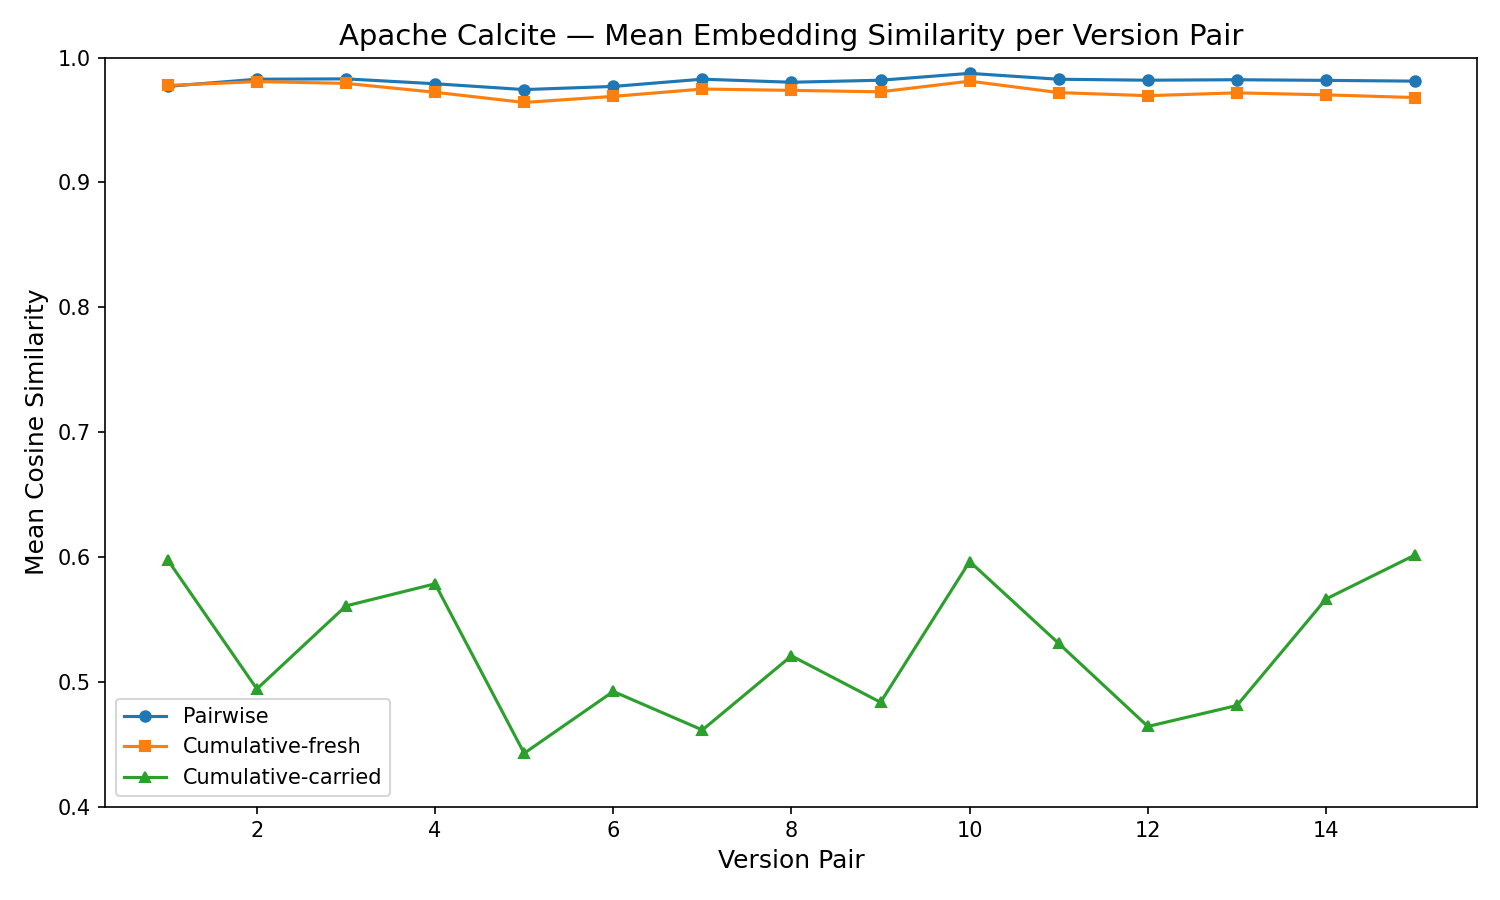
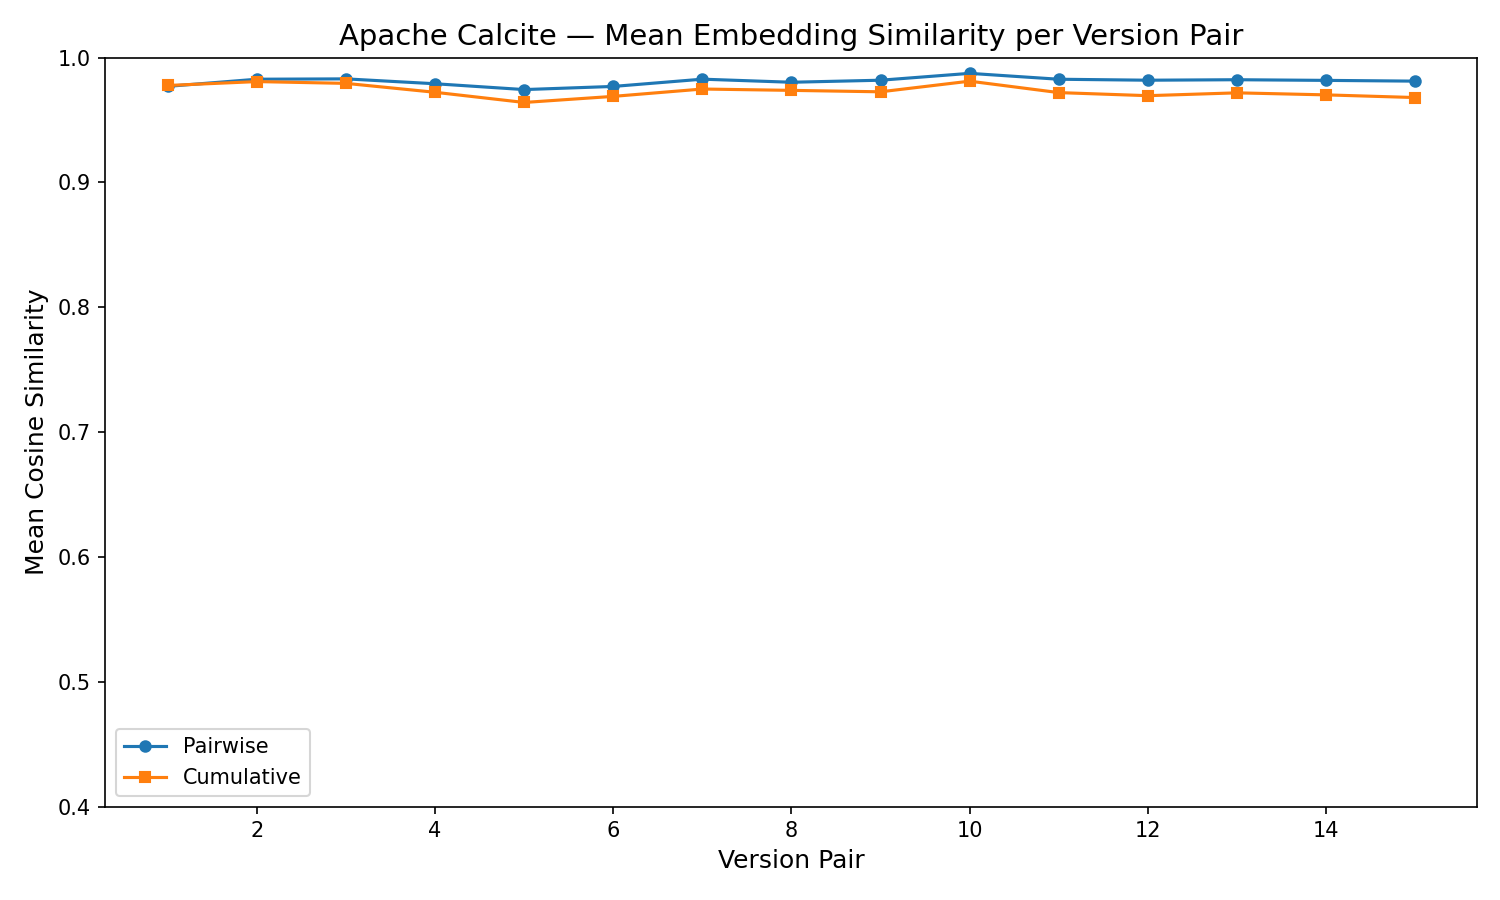
feat: add dataset characteristic plots, update threshold plots for paper
- Add calcite/django files_defrate plots using paper table data
- Remove titles from all plots (captions in LaTeX instead)
- Remove cumulative-carried from strategies, rename to "Cumulative"
- Add grid lines and increase font sizes in threshold exceedance plots
- Remove CLAUDE.md from repo, keep local only

diff --git a/src/plot_embedding_distances.py b/src/plot_embedding_distances.py
@@ -33,12 +33,12 @@ logging.basicConfig(level=logging.INFO, format="%(message)s", stream=sys.stdout)
 log = logging.getLogger(__name__)
 
 PROJECTS = ["django", "calcite"]
-STRATEGIES = ["pairwise", "cumulative-fresh", "cumulative-carried"]
+STRATEGIES = ["pairwise", "cumulative-fresh"]
 
 # Strategy -> (display name, color, marker)
 STRATEGY_STYLE = {
     "pairwise": ("Pairwise", "#1f77b4", "o"),
-    "cumulative-fresh": ("Cumulative-fresh", "#ff7f0e", "s"),
+    "cumulative-fresh": ("Cumulative", "#ff7f0e", "s"),
     "cumulative-carried": ("Cumulative-carried", "#2ca02c", "^"),
 }
 
@@ -215,15 +215,14 @@ def plot_threshold_exceedance(
             alpha=0.85,
         )
 
-    ax.set_xlabel("Version Pair", fontsize=12)
-    ax.set_ylabel("% Files with Similarity >= 0.99", fontsize=12)
-    ax.set_title(
-        f"{PROJECT_TITLES[project]} — Near-Duplicate Rate per Version Pair",
-        fontsize=14,
-    )
+    ax.grid(axis="y", color="gray", linestyle="-", linewidth=0.5, alpha=0.5)
+    ax.set_axisbelow(True)
+    ax.set_xlabel("Version Pair", fontsize=16)
+    ax.set_ylabel("% Files with Similarity >= 0.99", fontsize=16)
     ax.set_xticks(x)
-    ax.set_xticklabels(all_pairs, fontsize=9)
-    ax.legend(fontsize=10)
+    ax.set_xticklabels(all_pairs, fontsize=13)
+    ax.tick_params(axis="y", labelsize=13)
+    ax.legend(fontsize=14)
 
     plt.tight_layout()
     path = output_dir / f"threshold_exceedance_{project}.{fmt}"
